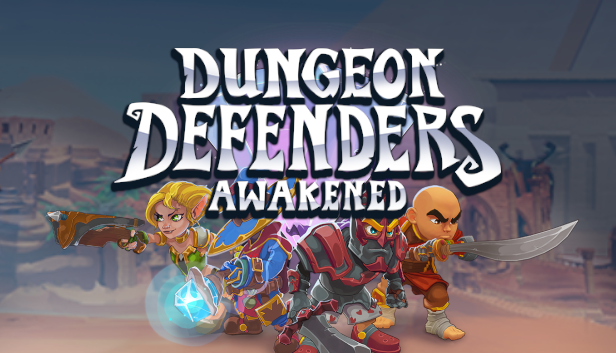
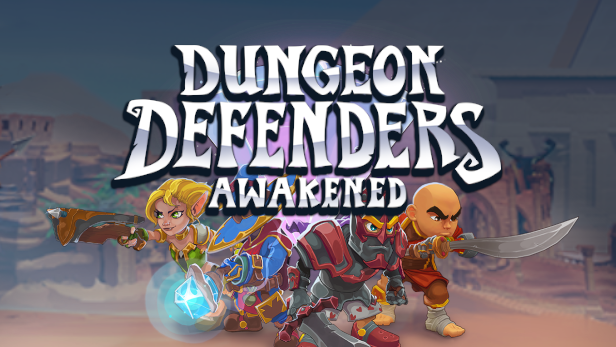
Improved loading experience of preview images
+Lowered resolutions all to 640x360px for all images
+Interlaced all pngs and replaced any jpgs with interlaced pngs
+Wrapped a fixed height on preview images so that the page doesn't flicker when loading images in

diff --git a/src/components/portfolio/PortfolioPreview.vue b/src/components/portfolio/PortfolioPreview.vue
@@ -1,7 +1,9 @@
 <template>
   <li style="margin: 8px">
     <a class="hidden" :href="absoluteTargetUrl">
-      <img :src="absoluteImageUrl" :alt="imageDesc" class="static-image" />
+      <div class="static-image-box">
+        <img :src="absoluteImageUrl" :alt="imageDesc" class="static-image" />
+      </div>
     </a>
   </li>
 </template>
@@ -45,12 +47,14 @@ li {
   animation: var(--global-animation-fade-up);
 }
 
+.static-image-box {
+  height: 312px;
+}
+
 .static-image {
   outline-color: var(--global-outline-color-hover);
   border-radius: 12px;
   padding: 4px;
-  height: auto; /* Ensures the image scales while maintaining its aspect ratio */
-  max-width: 100%;
   transition: outline 0.1s ease-in-out;
 }
 

diff --git a/src/views/HomeView.vue b/src/views/HomeView.vue
@@ -90,13 +90,13 @@ export default {
           items: [
             {
               target: 'ustaa',
-              previewImg: 'USTAAPreview.jpg',
+              previewImg: 'USTAAPreview.png',
               previewImgDesc:
                 'A screenshot of the website "USTAA" displaying various statistics and graphs'
             },
             {
               target: 'lfg',
-              previewImg: 'LFGPreview.jpg',
+              previewImg: 'LFGPreview.png',
               previewImgDesc:
                 'A screenshot of a spreadsheet displaying game character information with a logo that says "LFG"'
             }
